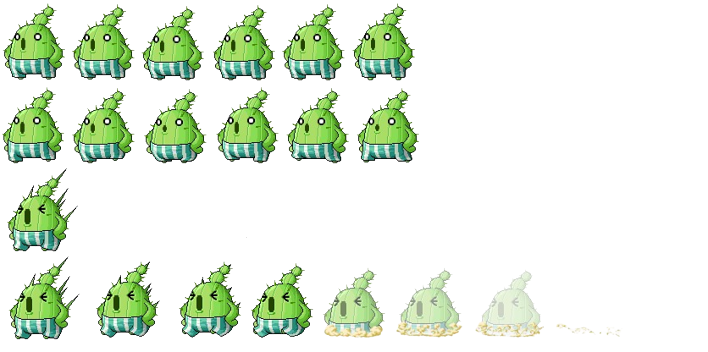
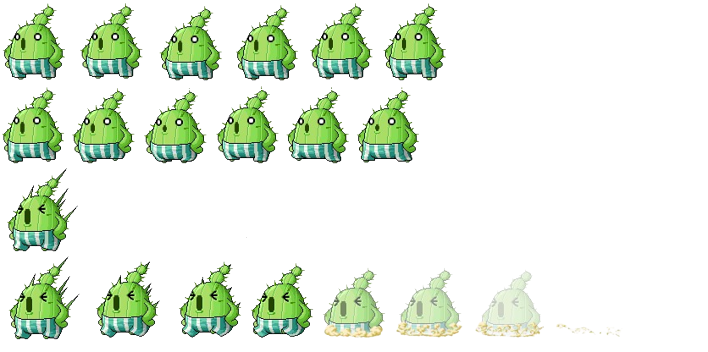
fixed cactus

Changed region(s): [[0.0932, 0.0, 0.6525, 0.25]]

diff --git a/oop2_proj/src/FileManager.cpp b/oop2_proj/src/FileManager.cpp
@@ -442,7 +442,7 @@ void FileManager::createSnowMonstersAnimeData()
 void FileManager::createDesertMonstersAnimeData()
 {
 	setCurrentData(m_monsterData[LEVEL3][MONSTER1], Stay, movableAnimationSet
-	({ 65, 76 }, { 1, 4 },2, 6, Stay), 0.02f, false);
+	({ 67, 76 }, { 1, 5 },9, 6, Stay), 0.02f, false);
 
 	/*setCurrentData(m_monsterData[LEVEL3][MONSTER1], Walk, movableAnimationSet
 	({ 240, 115 }, { 480, 5 }, 2, Walk), 0.01f, false);*/
